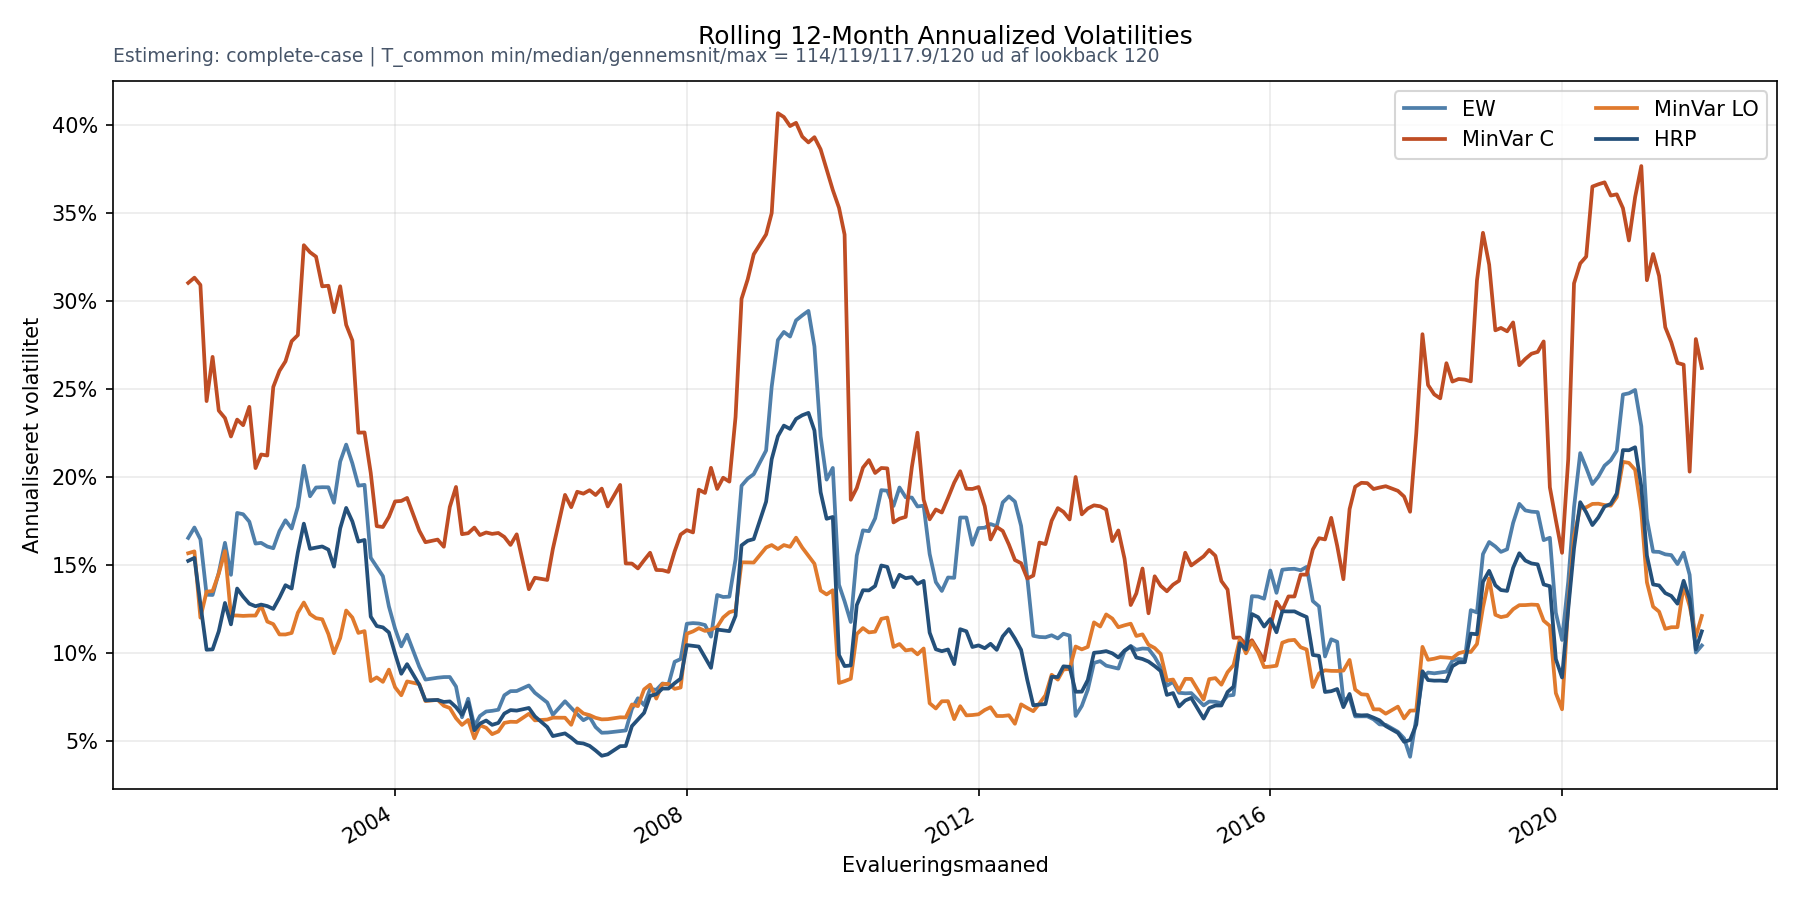
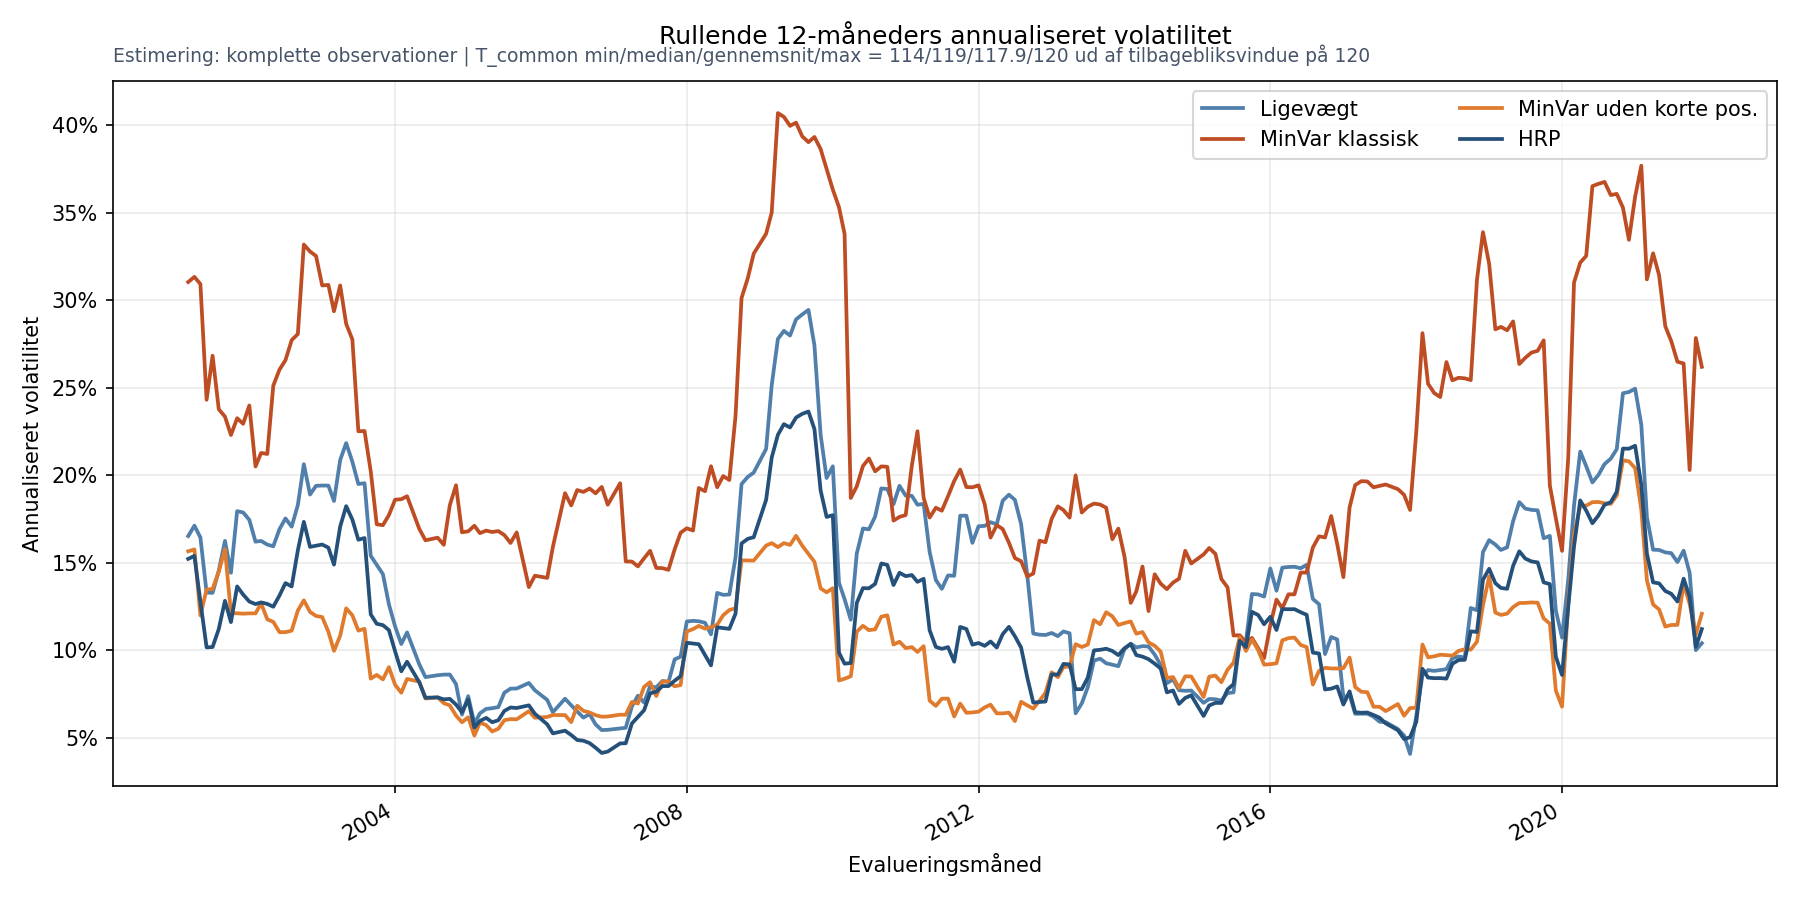
Opdater resultater med turnover og Sharpe

diff --git a/Analyse og Resultater/Resultater.tex b/Analyse og Resultater/Resultater.tex
@@ -92,64 +92,103 @@ Samlet set viser resultaterne, at HRP skaber mere diversificerede porteføljer e
 \subsubsection{Afkastmål}
 
 
-\subsubsection{Volatilitet og Sharpe Ratio}
+\subsubsection{Volatilitet og Sharpe ratio}
 
-Når vi kigger nærmere på volatiliteten for porteføljemetoderne med en rullende 12 måneders volatilitet, ses det, at den klassiske minimum varians portefølje generelt ligger på et væsentligt højere niveau end de øvrige porteføljer. Over hele evalueringsperioden har den en gennemsnitlig annualiseret volatilitet på 23,28\%, hvilket er markant højere end både Equal Weights (14,68\%), HRP (12,30\%) og Minimum Varians Long Only (11,01\%). 
+Når vi kigger nærmere på volatiliteten for porteføljemetoderne med en rullende 12-måneders volatilitet, ses det, at den klassiske minimumsvariansportefølje generelt ligger på et væsentligt højere niveau end de øvrige porteføljer. Over hele evalueringsperioden har den en annualiseret volatilitet på 23,28\%, hvilket er markant højere end både Ligevægt (14,68\%), HRP (12,30\%) og Minimumsvarians uden korte positioner (11,01\%).
 
-Dette ses også tydeligt i figur \ref{fig:volatilitet_over_tid}, hvor den klassiske MV portefølje topper med en volatilitet på omkring 40\% under finanskrisen. Equal Weight porteføljen følger i højere grad markedets udsving, men ligger generelt lavere end den klassiske MV. 
+Dette ses også tydeligt i figur \ref{fig:volatilitet_over_tid}, hvor den klassiske minimumsvariansportefølje topper med en volatilitet på omkring 40\% under finanskrisen. Ligevægtsporteføljen følger i højere grad markedets udsving, men ligger generelt lavere end den klassiske minimumsvariansportefølje.
 
-Dernæst kan det observeres, at Minimum Varians Long Only ligger på et generelt lavere niveau end HRP porteføljen. Specielt i perioder med store udsving præsterer den mere stabilt end de øvrige porteføljer. Dermed er MVLO den portefølje, der har lavest volatilitet blandt alle. HRP porteføljen følger langt hen ad vejen MVLO, men leverer generelt en lidt højere volatilitet i udsvingene. 
+Dernæst kan det observeres, at Minimumsvarians uden korte positioner ligger på et generelt lavere niveau end HRP-porteføljen. Specielt i perioder med store udsving præsterer den mere stabilt end de øvrige porteføljer. Dermed er minimumsvarians uden korte positioner den portefølje, der har lavest volatilitet blandt alle. HRP-porteføljen følger langt hen ad vejen samme mønster, men leverer generelt en lidt højere volatilitet i udsvingene.
 
 Resultaterne stemmer overens med det teoretiske, da MVLO direkte minimerer variansen under restriktioner, mens HRP i stedet fordeler risiko og derfor ikke nødvendigvis opnår samme lave niveau.
 
 \begin{figure}[H]
     \centering
     \includegraphics[width=0.95\linewidth]{Analyse og Resultater/Billeder/rolling_annualized_volatility_over_time.png}
-    \caption{}
+    \caption{Rullende 12-måneders annualiseret volatilitet for porteføljemetoderne.}
     \label{fig:volatilitet_over_tid}
 \end{figure}
 
-Når vi kigger på Sharpe ratioen (rullende 12 måneder), er det nogle andre mønstre, der bliver tydeligere. Over hele perioden opnår minimum varians long only den højeste Sharpe ratio på 0,856, efterfulgt af HRP med 0,729. Ligevægt ligger på 0,587, mens den klassiske minimum varians portefølje ligger markant lavere på 0,357.
+Når vi kigger på Sharpe ratioen, bliver nogle andre mønstre tydelige. Over hele perioden opnår minimumsvarians uden korte positioner den højeste samlede Sharpe ratio på 0,856, efterfulgt af HRP med 0,729. Ligevægt ligger på 0,587, mens den klassiske minimumsvariansportefølje ligger markant lavere på 0,357.
 
-I figur \ref{fig:Sharpe-ratio_over_tid} ses det denne gang, at HRP og Equal Weight porteføljerne i høj grad følger hinanden og reagerer på de samme markedsudsving. HRP ligger dog generelt lidt højere, hvilket indikerer en bedre risikojusteret performance. 
+I figur \ref{fig:sharpe_ratio_over_tid} ses den rullende 12-måneders Sharpe ratio. HRP og ligevægtsporteføljen følger i høj grad hinanden og reagerer på de samme markedsudsving. HRP ligger dog generelt lidt højere, hvilket indikerer en bedre risikojusteret performance.
 
-Minimum varians long only porteføljen adskiller sig ved at være mere stabil og samlet set levere den højeste Sharpe ratio. Den klassiske minimum varians portefølje performer derimod generelt svagt, hvilket hænger sammen med den høje volatilitet observeret tidligere. Dog med enkelte frekvenser er det den bedst præsterende portefølje, hvilket tyder på at i disse perioder kan den estimeret kovariansmatrix være mindre udsat for numerisk ustabilitet. 
+Minimumsvarians uden korte positioner adskiller sig ved samlet set at levere den højeste Sharpe ratio, mens HRP har det højeste gennemsnit for den rullende 12-måneders Sharpe ratio på 1,185. Den klassiske minimumsvariansportefølje performer derimod generelt svagt, hvilket hænger sammen med den høje volatilitet observeret tidligere. I enkelte perioder er den dog konkurrencedygtig, hvilket tyder på, at kovariansestimatet i disse perioder er mindre præget af numerisk ustabilitet.
 
 \begin{figure}[H]
     \centering
     \includegraphics[width=0.95\linewidth]{Analyse og Resultater/Billeder/rolling_sharpe_ratio_over_time.png}
-    \caption{}
-    \label{fig:Sharpe-ratio_over_tid}
+    \caption{Rullende 12-måneders Sharpe ratio for porteføljemetoderne.}
+    \label{fig:sharpe_ratio_over_tid}
 \end{figure}
 
 \begin{table}[H]
 \centering
 \caption{Oversigt over volatilitet og Sharpe ratio}
 \label{tab:resultater_vol_sharpe}
-\begin{tabular}{lcc}
+\resizebox{\linewidth}{!}{%
+\begin{tabular}{lccccc}
 \toprule
-Portefølje & Annualiseret volatilitet & Sharpe ratio \\
+Portefølje & Ann. volatilitet & Sharpe ratio & Gns. 12 mdr. Sharpe & Min. 12 mdr. Sharpe & Maks. 12 mdr. Sharpe \\
 \midrule
-Equal Weights& 14,68\% & 0,587 \\
-Klassisk minimum varians & 23,28\% & 0,357 \\
-Minimum varians long only & 11,01\% & 0,856 \\
-HRP & 12,30\% & 0,729 \\
+Ligevægt & 14,68\% & 0,587 & 1,090 & -1,889 & 5,022 \\
+Klassisk minimumsvarians & 23,28\% & 0,357 & 0,754 & -1,384 & 4,567 \\
+Minimumsvarians uden korte positioner & 11,01\% & 0,856 & 1,135 & -1,873 & 4,332 \\
+HRP & 12,30\% & 0,729 & 1,185 & -1,814 & 4,306 \\
 \bottomrule
 \end{tabular}
+}
 \end{table}
 \subsubsection{Turnover}
+
+Turnover måler, hvor meget porteføljen skal handles ved hver rebalancering, efter at de tidligere vægte først er blevet justeret for den realiserede månedsafkastudvikling. Dermed afspejler målet både ændringer i det valgte aktieunivers og ændringer i selve allokeringen.
+
+Figur \ref{fig:turnover_over_tid} viser, at den klassiske minimumsvariansportefølje har en markant højere omsætning end de øvrige metoder. Den gennemsnitlige månedlige turnover er 6,509, og den samlede turnover over perioden er 1562,05. Dette er en direkte konsekvens af, at den ubegrænsede minimumsvariansløsning er meget følsom over for små ændringer i kovariansmatricen og samtidig tillader store positive og negative positioner.
+
 \begin{figure}[H]
     \centering
     \includegraphics[width=0.95\linewidth]{Analyse og Resultater/Billeder/turnover_over_time.png}
-    \caption{}
-    \label{fig:volatilitet_over_tid}
+    \caption{Porteføljeomsætning over tid for alle porteføljemetoder.}
+    \label{fig:turnover_over_tid}
 \end{figure}
+
+Fordi den klassiske minimumsvariansportefølje dominerer skalaen, vises de øvrige metoder separat i figur \ref{fig:turnover_over_tid_uden_klassisk_mv}. Her ses det, at HRP og minimumsvarians uden korte positioner ligger tættere på hinanden, med gennemsnitlig månedlig turnover på henholdsvis 0,302 og 0,274. Ligevægt har lavest omsætning med 0,102 i gennemsnit pr. måned, men den er ikke nul, fordi aktieuniverset opdateres løbende.
+
+\begin{figure}[H]
+    \centering
+    \includegraphics[width=0.95\linewidth]{Analyse og Resultater/Billeder/turnover_over_time_without_classical_mv.png}
+    \caption{Porteføljeomsætning over tid uden klassisk minimumsvarians.}
+    \label{fig:turnover_over_tid_uden_klassisk_mv}
+\end{figure}
+
+\begin{table}[H]
+\centering
+\caption{Oversigt over månedlig turnover}
+\label{tab:resultater_turnover}
+\begin{tabular}{lccc}
+\toprule
+Portefølje & Gns. månedlig turnover & Median månedlig turnover & Samlet turnover \\
+\midrule
+Ligevægt & 0,102 & 0,093 & 24,42 \\
+Klassisk minimumsvarians & 6,509 & 6,184 & 1562,05 \\
+Minimumsvarians uden korte positioner & 0,274 & 0,201 & 65,88 \\
+HRP & 0,302 & 0,300 & 72,60 \\
+\bottomrule
+\end{tabular}
+\end{table}
+
 \subsubsection{Effekt af kovariansestimatet}
+
+Figur \ref{fig:sharpe_vs_t_fixed_n} viser, hvordan Sharpe ratioen ændrer sig, når længden af estimationsvinduet $T$ varieres, mens antallet af aktiver holdes fast. Formålet er at isolere betydningen af kovariansestimatets tidsdimension: Når $T$ er lavt relativt til $N$, bliver kovariansmatricen mere støjfyldt og tættere på singulær. Det rammer især metoder, der afhænger direkte af inversion eller numerisk optimering på kovariansmatricen. Den klassiske minimumsvariansportefølje forventes derfor at være mest ustabil, mens HRP bør være mere robust, fordi metoden bruger korrelationsstrukturen og rekursiv klyngeallokering frem for direkte matrixinversion.
+
+Når $T$ stiger, bør kovariansestimatet alt andet lige blive mere stabilt, fordi det bygger på flere observationer. Det betyder dog ikke, at alle metoder nødvendigvis forbedres monotont. I implementeringen udvælges universet på ny for hvert evalueringsvindue: Først rangeres aktier efter market cap måneden før evaluering, og derefter beholdes kun aktier, der har tilstrækkeligt mange gyldige observationer i det konkrete lookback-vindue. Med \texttt{min\_estimation\_obs\_ratio = 0{,}95} og complete-case filtrering kan et længere $T$ derfor ændre, hvilke aktier der overhovedet indgår i de 100 valgte aktiver. Det er grunden til, at ligevægtsporteføljen også kan ændre performance, selvom dens vægte altid er $1/N$ inden for det valgte univers. Den investerer ikke nødvendigvis i præcis de samme aktier, og evalueringsperioden kan også blive påvirket af kravet om historiske observationer.
+
+Resultatet skal derfor læses som en samlet effekt af et mere stabilt kovariansestimat og en ændret datatilgængelighed/aktiesammensætning. Hvis HRP klarer sig relativt bedre ved lave $T$-værdier, understøtter det hypotesen om, at hierarkisk porteføljekonstruktion er mere robust over for støj i kovariansmatricen. Hvis minimumsvarians uden korte positioner forbedres ved højere $T$, er det konsistent med, at optimeringen får et mere stabilt input, samtidig med at long-only-restriktionen begrænser de mest ekstreme vægte.
 
 \begin{figure}[H]
     \centering
     \includegraphics[width=0.95\linewidth]{Analyse og Resultater/Billeder/sharpe_vs_T_fixed_N.png}
-    \caption{}
-    \label{fig:volatilitet_over_tid}
+    \caption{Sharpe ratio ved varierende estimationsvindue $T$ og fast antal aktiver $N$.}
+    \label{fig:sharpe_vs_t_fixed_n}
 \end{figure}
 \end{document}
